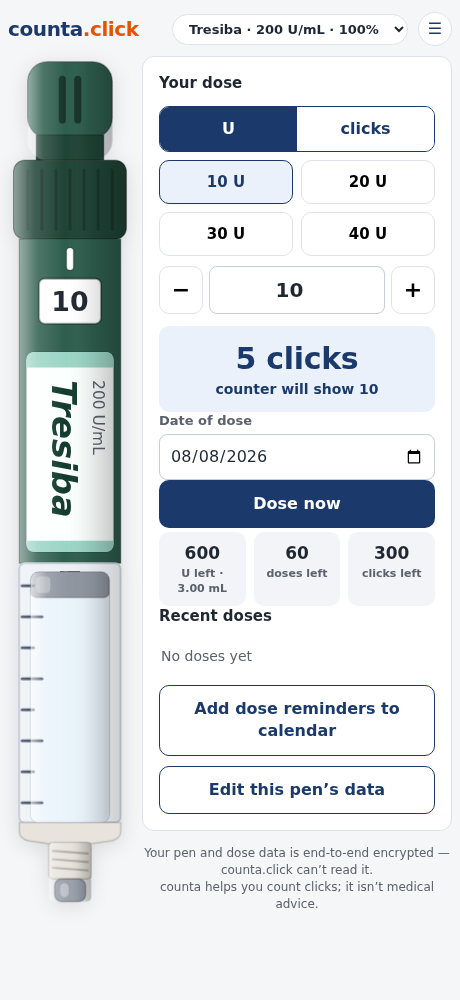
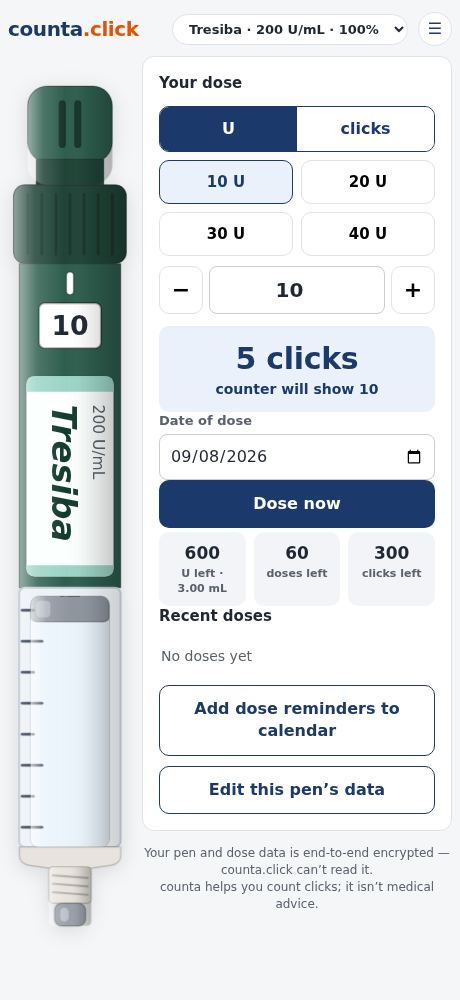
Size the pen graphic by height, not width, and demote #38's clamp to a safety net
Closes #36. The pen's 1:6.9 aspect ratio is hostile to a width-driven box:
unconstrained it grows ~1300px tall on desktop (#20); #38's stopgap capped
that with max-height, which works numerically but sizes the pen by the wrong
axis first and clamps second — a clamp, not the fix, as that PR said itself.

Height is now the primary property (a viewport-relative calc, unchanged in
value from #38's proven 100px header allowance) and width follows from the
SVG's intrinsic aspect ratio. The former width:100%;max-width:190px pair is
gone; max-width:100% remains only as a safety net for the one case
height-driven sizing can't handle alone — a viewport tall enough relative to
its grid column (height > column-width * 6.9) would otherwise compute a pen
wider than its column and overflow into the form beside it. The percentage
tracks whatever the column actually is at each breakpoint, rather than the
old fixed 190px figure.

Two other approaches from #36 were prototyped and rejected, not just
argued against:
- A layout rethink (single-column, pen stacked above the form) for the
  near-square foldable-unfolded case pushes "Dose now" and the stats below
  the fold on an 884x968 viewport, and wastes horizontal space around the
  narrow pen either side — a real regression against "trivially easy to
  use." The existing two-column breakpoint already handles that viewport
  well.
- A preserveAspectRatio/viewBox swap for landscape orientations turned out
[…]

diff --git a/app/assets/stylesheets/application.css b/app/assets/stylesheets/application.css
@@ -46,13 +46,28 @@ main{display:grid;grid-template-columns:112px 1fr;gap:12px;align-items:start}
   header.top{padding:4px 0 10px}
 }
 .pen-col{position:sticky;top:8px;display:flex;flex-direction:column;align-items:center;gap:8px}
-/* Stopgap cap (#36): the tight viewBox from #34 lets the 1:6.9 pen grow
- * ~1300px tall at max-width, so keep the whole pen inside the viewport —
- * a sticky anchor taller than the screen is never seen whole. This shrinks
- * the pen to fit, which is the direction #20 ruled out; the height-aware
- * sizing pass in #36 should remove or demote it. */
-.pen-col svg{width:100%;max-width:190px;height:auto;
-  max-height:calc(100vh - 100px);max-height:calc(100dvh - 100px);
+/* Height-driven sizing (#36 — the real fix for #38's width+max-height clamp).
+ * The pen's 1:6.9 aspect is hostile to a width-driven box: unconstrained it
+ * grows ~1300px tall at max-width, and clamping height afterward (#38) only
+ * shrinks it back to fit — the pen is still sized by the wrong axis. Height
+ * is the axis a tall-thin object actually needs, so it's primary here and
+ * width follows from the intrinsic aspect ratio.
+ * --pen-headroom covers the header + its padding above the sticky pen column
+ * (measured 56-64px unscrolled across breakpoints) plus room to breathe
+ * before the next card; unchanged from #38's value, which was already
+ * checked against the real screenshots. */
+.pen-col svg{
+  --pen-headroom: 100px;
+  height:calc(100vh - var(--pen-headroom));
+  height:calc(100dvh - var(--pen-headroom));
+  width:auto;
+  /* Safety net, not the mechanism: on a viewport tall enough relative to its
+   * column width (height > column-width * 6.9), height-driven sizing alone
+   * would compute a pen wider than its grid column and overflow into the
+   * form beside it. 100% here is the column's own width via .pen-col, which
+   * stretches to fill the grid track at every breakpoint — so this tracks
+   * whatever the column actually is, not a hardcoded figure. */
+  max-width:100%;
   filter:drop-shadow(0 4px 10px rgba(0,0,0,.12))}
 .card{background:var(--card);border:1px solid var(--line);border-radius:var(--radius);padding:16px;margin-bottom:14px}
 .card h2{font-size:15px;margin:0 0 12px;display:flex;align-items:center;gap:8px}
